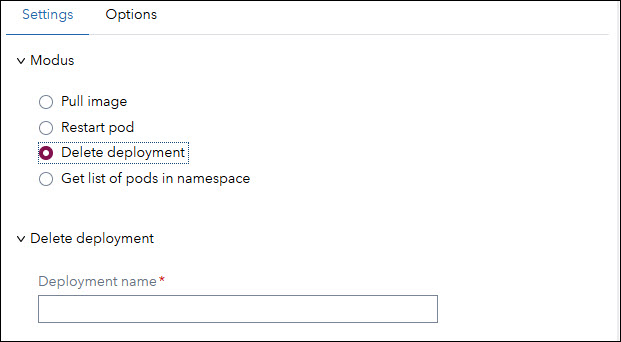
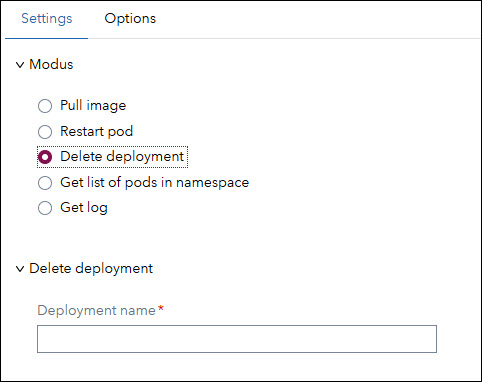
init

diff --git a/README.md b/README.md
@@ -195,10 +195,11 @@ If the SCR image accesses a database, you must create a database secret. You can
 ## ID - Deploy SCR
 The **ID - Deploy SCR** custom step allows you to interact with the pull-scr service from within SAS Viya using SAS Studio. This step supports operations such as:<br>
 
-🔷 pulling container images, <br>
-🔷 restarting pods, <br>
-🔷 deleting deployments, <br>
-🔷 listing pods in the dedicated Kubernetes namespace.<br>
+🔷 **Load** SCR images into Kubernetes<br>
+🔷 **Restart** launched SCR containers<br>
+🔷 **Delete** SCR container deployments<br>
+🔷 **List** all pods running in the dedicated Kubernetes namespace<br>
+🔷 **Show** log for SCR container<br>
 
 ---
 ### Importing the Custom Step
@@ -220,6 +221,8 @@ Use this section to choose the operation you want to perform:
     Remove an SCR deployment from Kubernetes.
 * **Get list of pods in namespace**<br>
     Retrieve a list of pods in the *scr-pull* namespace, including status and age information.
+* **Get log**<br>
+    Retrive the log for a container in the dedicated namespace.
 
 ![](./images/pull-image.jpg)
 
@@ -239,6 +242,8 @@ Options:
     The Kubelet will only pull the image if it is not already present on the node. If a local copy exists, it will be used without checking the registry for updates
     * Never<br>
     It will only use a locally available image. If the image is not found locally, the container launch will fail. This policy is typically used for development or air-gapped environments where images are pre-loaded onto nodes
+* **SCR is using database**
+    * Tick this box if the SCR image is accessing a database. If this box is ticked a database secret needs to be set. [See Create Database Secret](#2-create-database-secret).    
 * **Environment Variables**<br>
 Set the number of environment variables you want to set for the scr container
 * **Environment Variable**<br>
@@ -270,6 +275,23 @@ Set the name of the scr deployment you want to delete.
 
 Run the step to receive a list of all pods running in the namespace linked to pull-scr.
 
+---
+#### Get log
+![](./images/get-log.jpg)
+
+* **Pod name**<br>
+The name of the pod for wich you want the log information.<br>
+You don't need to type in the complete pod name, partions of it will work. E.g.: if the pod name is 'scr-mypod-7b7c55d84b-2fm87' you can just tyep 'mypod'.
+
+* **Show rows in log**
+This indecates how many rows on the log will be shows.
+    * All rows<br>
+    Shows the complete log
+    * Top rows<br>
+    Show the top number of rows as set in field **Number of rows**
+    * Bottom rows<br>
+    Show last number of rows as set in field **Number of rows**
+<br><br>
 ---
 ### Options
 ![](./images/options.jpg)
